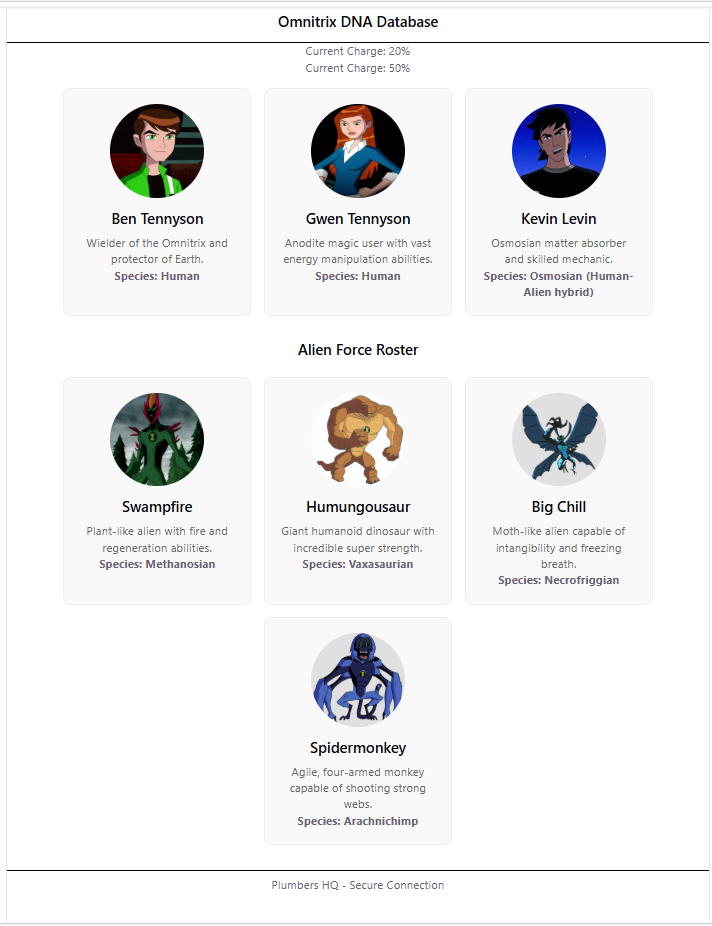
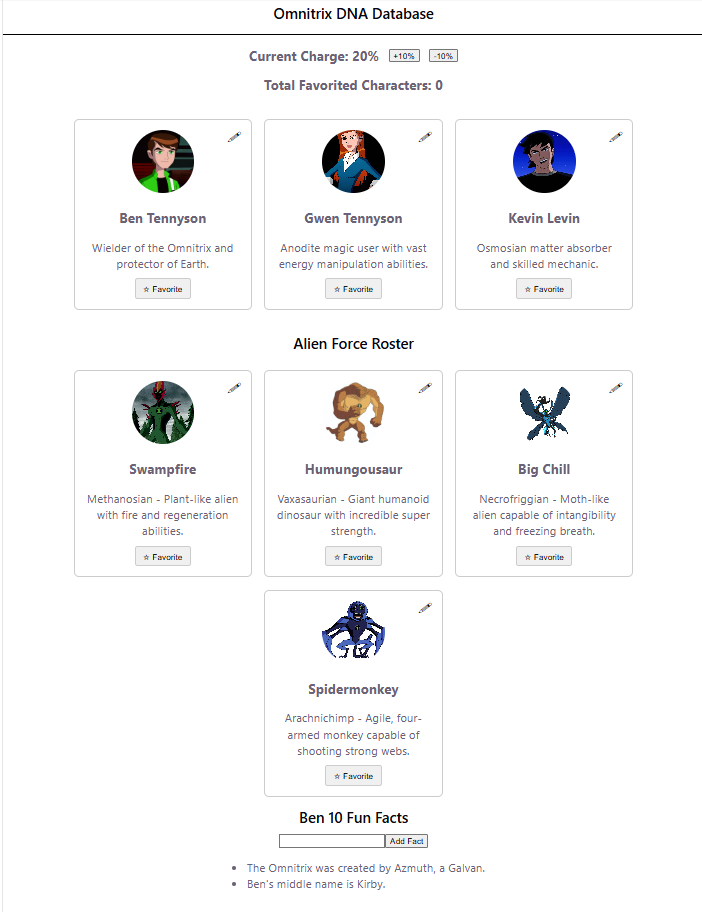
Adding Interactivity: charge buttons, favorites, editable bios, fun facts list

diff --git a/src/App.jsx b/src/App.jsx
@@ -1,9 +1,10 @@
+import { useState } from 'react';
 import { HedFun } from './Header.jsx';
 import FotFun from './Footer.jsx';
 import Profile from './Profile.jsx';
 import OmnitrixCharge from './OmnitrixCharge.jsx';
 
-const alienDatabase = [
+const initialAliens = [
   { id: 1, name: "Swampfire", species: "Methanosian", bio: "Plant-like alien with fire and regeneration abilities.", imageUrl: "/images/sw.webp" },
   { id: 2, name: "Echo Echo", species: "Sonorosian", bio: "Living soundwaves in a containment suit. Can clone himself.", imageUrl: "/images/echo.webp" },
   { id: 3, name: "Humungousaur", species: "Vaxasaurian", bio: "Giant humanoid dinosaur with incredible super strength.", imageUrl: "/images/hum.jpg" },
@@ -12,56 +13,96 @@ const alienDatabase = [
 ];
 
 function App() {
+  const [favorites, setFavorites] = useState([]);
+  const [aliens, setAliens] = useState(initialAliens);
+  const [newName, setNewName] = useState('');
+  const [newSpecies, setNewSpecies] = useState('');
+  const [facts, setFacts] = useState([
+    { id: 1, text: "The Omnitrix was created by Azmuth, a Galvan." },
+    { id: 2, text: "Ben's middle name is Kirby." }
+  ]);
+  const [newFact, setNewFact] = useState('');
+  const favoriteCount = favorites.length;
+
+  function handleAddFact(e){
+    e.preventDefault();
+    const factObject = { id: Date.now(), text: newFact };
+    setFacts([...facts, factObject]);
+    setNewFact('');
+  }
+  
+  function handleToggleFavorite(id){
+    if(favorites.includes(id)){
+      setFavorites(favorites.filter(favId => favId !== id));
+    } else {
+      setFavorites([...favorites, id]);
+    }
+  }
   return (
     <div className="app">
       <HedFun />
-      
-      <OmnitrixCharge chargeLevel={20}/>
-      <OmnitrixCharge chargeLevel={50}/>
+      <OmnitrixCharge />
+      <h3>Total Favorited Characters: {favoriteCount}</h3>
       <div style={{ display: 'flex', gap: '20px', justifyContent: 'center', flexWrap: 'wrap', padding: '20px' }}>
         <Profile 
           name="Ben Tennyson"
           bio="Wielder of the Omnitrix and protector of Earth."
           imageUrl="/images/bt.jpg"
-          species="Human"
+          isFavorite={favorites.includes("ben")}
+          onToggle={() => handleToggleFavorite("ben")}
         />
 
         <Profile 
           name="Gwen Tennyson"
           bio="Anodite magic user with vast energy manipulation abilities."
           imageUrl="/images/gt.jpg"
-          species="Human"
+          isFavorite={favorites.includes("gwen")}
+          onToggle={() => handleToggleFavorite("gwen")}
         />
 
         <Profile 
           name="Kevin Levin"
           bio="Osmosian matter absorber and skilled mechanic."
           imageUrl="/images/ke.jpg"
-          species="Osmosian (Human-Alien hybrid)"
+          isFavorite={favorites.includes("kevin")}
+          onToggle={() => handleToggleFavorite("kevin")}
         />
       </div>
 
       <h2 style={{ textAlign: 'center', marginTop: '20px' }}>Alien Force Roster</h2>
       <div style={{ display: 'flex', gap: '20px', justifyContent: 'center', flexWrap: 'wrap', padding: '20px' }}>
         
-        {alienDatabase
-          .filter(alien => alien.species !== "Sonorosian")
+        {aliens
+          .filter(alien => alien.species !== "Sonorosian") 
           .map(alien => (
-            <Profile
+            <Profile 
               key={alien.id}
               name={alien.name}
-              bio={alien.bio}
+              bio={`${alien.species} - ${alien.bio}`}
               imageUrl={alien.imageUrl}
-              species={alien.species}
+              isFavorite={favorites.includes(alien.id)}
+              onToggle={() => handleToggleFavorite(alien.id)}
             />
           ))
         }
 
       </div>
+      <h2>Ben 10 Fun Facts</h2>
+      <form onSubmit={handleAddFact}>
+        <input type="text" value={newFact} onChange={(e) => setNewFact(e.target.value)}/>
+        <button type='submit'>Add Fact</button>
+      </form>
+
+      <ul style={{ textAlign: 'left', display: 'inline-block' }}>
+        {facts.map(fact => (
+          <li key={fact.id}>{fact.text}</li>
+        ))}
+      </ul>
 
       <FotFun />
     </div>
   );
 }
+
 
 export default App;

diff --git a/src/Profile.jsx b/src/Profile.jsx
@@ -1,17 +1,56 @@
-import Card from './Card.jsx';
+import { useState } from 'react';
 
-function Profile({ name, bio, imageUrl, species, size = 150 }) {
+function Profile({ name, bio, imageUrl, isAlien, isFavorite, onToggle }) {
+  const [isEditing, setIsEditing] = useState(false);
+  const [editedBio, setEditedBio] = useState(bio);
+
   return (
-    <Card>
-      <img
-        src={imageUrl}
-        alt={"Avatar of " + name}
-        style={{ width: size, height: size, borderRadius: '50%', backgroundColor: '#e0e0e0' }}
-      />
-      <h2 style={{ margin: '12px 0' }}>{name}</h2>
-      <p style={{ color: '#666' }}>{bio}</p>
-      <p style={{ fontWeight: 'bold' }}>Species: {species}</p>
-    </Card>
+    <div style={{ 
+      position: 'relative', 
+      border: '1px solid #ccc', 
+      borderRadius: '8px', 
+      padding: '16px', 
+      width: '250px', 
+      textAlign: 'center', 
+      background: '#fff' 
+    }}>
+      
+      <button 
+        onClick={() => setIsEditing(!isEditing)} 
+        style={{ 
+          position: 'absolute', 
+          top: '10px', 
+          right: '10px', 
+          background: 'transparent', 
+          border: 'none', 
+          cursor: 'pointer',
+          fontSize: '1.2em'
+        }}
+        title={isEditing ? "Save" : "Edit Bio"}
+      >
+        {isEditing ? "✅" : "🖉"}
+      </button>
+
+      <img src={imageUrl} alt={name} style={{ width: '100px', height: '100px', borderRadius: '50%', objectFit: 'cover' }} />
+      <h3>{name}</h3>
+      
+      {isEditing ? (
+        <input 
+          value={editedBio} 
+          onChange={(e) => setEditedBio(e.target.value)} 
+          style={{ width: '90%', padding: '4px', marginBottom: '8px', textAlign: 'center' }}
+        />
+      ) : (
+        <p>{editedBio}</p>
+      )}
+      
+      <button 
+        onClick={onToggle} 
+        style={{ marginTop: '10px', padding: '6px 12px', cursor: 'pointer', borderRadius: '4px', border: '1px solid #ccc', background: isFavorite ? '#ffdf00' : '#f0f0f0' }}
+      >
+        {isFavorite ? "⭐ Favorited" : "☆ Favorite"}
+      </button>
+    </div>
   );
 }
 

diff --git a/src/OmnitrixCharge.jsx b/src/OmnitrixCharge.jsx
@@ -1,7 +1,11 @@
-function OmnitrixCharge({chargeLevel}){
+import { useState } from "react";
+function OmnitrixCharge(){
+    const [charge, setCharge] = useState(20);
     return(
-        <div>
-            {"Current Charge: " + chargeLevel + "%"}
+        <div style={{ display: 'flex', justifyContent: 'center', alignItems: 'center', gap: '15px', margin: '20px' }}>
+            <h3 style={{margin : 0}}>Current Charge: {charge}%</h3>
+            <button onClick={() => {charge < 100 ? setCharge(c => Math.min(c + 10, 100)) : alert("Omnitrix Charged!")}}>+10%</button>
+            <button onClick={() => {charge > 0 ? setCharge(c => Math.max(c - 10, 0)) : alert("Insufficient Charge")}}>-10%</button>
         </div>
     )
 }

diff --git a/README.md b/README.md
@@ -16,6 +16,18 @@ only — this is a learning exercise, not an original app.
 - Rendering lists with `.map()` and `key`
 - Component purity (see separate purity demo, not part of main app)
 
+## Concepts practiced
+- Components, named vs. default exports
+- JSX + curly braces (including double-curly `style={{...}}` objects)
+- Props, default parameter values, and `children`
+- Conditional rendering
+- Rendering lists with `.map()` and `key`
+- Component purity (see separate purity demo, not part of main app)
+- Responding to events (button clicks, form submit with preventDefault)
+- State with useState, and the state-as-snapshot behavior
+- Queueing multiple state updates with updater functions
+- Updating objects and arrays in state immutably (favorites list, editable bios, adding new facts)
+
 ## Tech
 React + Vite
 
